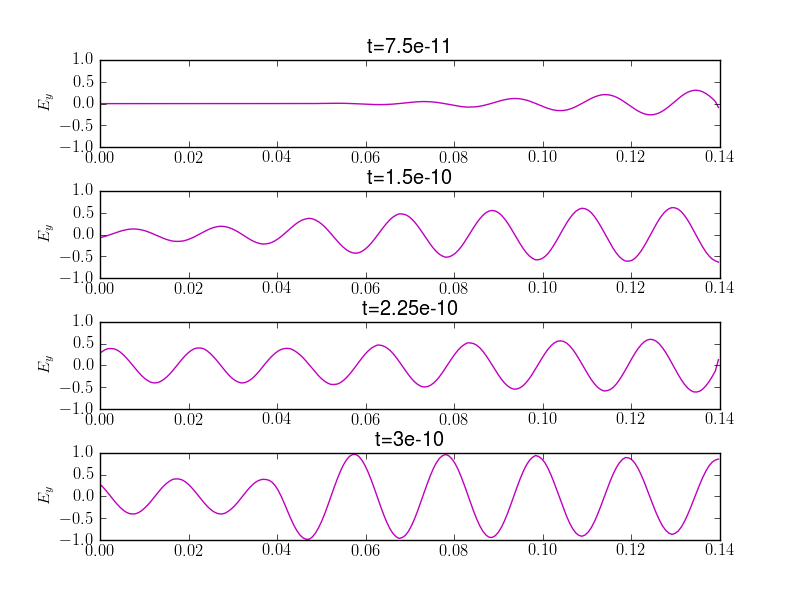
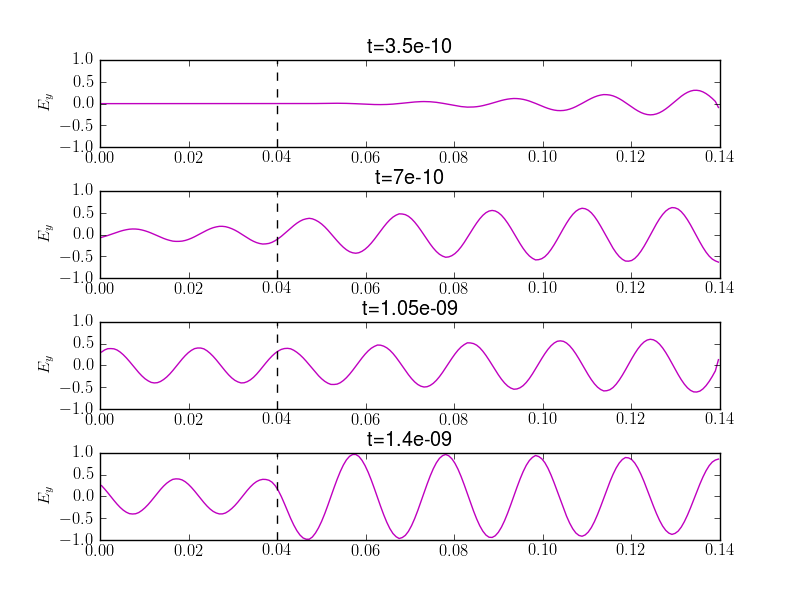
Updated figures and input file

diff --git a/sims/s72/plt-ExEy-cyclotron-cutoff.py b/sims/s72/plt-ExEy-cyclotron-cutoff.py
@@ -11,8 +11,8 @@ dx = (xup-xlo)/nx
 X = pylab.linspace(xlo+0.5*dx, xup-0.5*dx, nx)
 
 driveF = 15.0e9
-tEnd = 1.5e-9
-nDump = 20
+tEnd = 1.4e-9
+nDump = 4
 T = pylab.linspace(0, tEnd, nDump+1)
 
 fig = pylab.figure(1)
@@ -25,6 +25,7 @@ for i in [1, 2, 3, 4]:
     pylab.plot(X, q[:,10], 'm-')
     currAx = pylab.gca()
     currAx.set_ylim([-0.05, 0.05])
+    pylab.plot([0.04, 0.04], [-0.05, 0.05], 'k--')
     pylab.title("t=%g" % T[i])
     pylab.ylabel(r'$E_x$')
 
@@ -40,6 +41,7 @@ for i in [1, 2, 3, 4]:
     pylab.plot(X, q[:,11], 'm-')
     currAx = pylab.gca()
     currAx.set_ylim([-1.0, 1.0])
+    pylab.plot([0.04, 0.04], [-1.0, 1.0], 'k--')
     pylab.title("t=%g" % T[i])
     pylab.ylabel(r'$E_y$')    
 

diff --git a/je/je9/je9-cyclotron-tunneling.rst b/je/je9/je9-cyclotron-tunneling.rst
@@ -51,13 +51,15 @@ as the wave number becomes infinite there.
   :align: center
 
   The electric field (:math:`E_y`) of the EM wave at different
-  times. The wave tunnels through the electron cyclotron resonance
+  times. The black dashed line shows the location of the cyclotron
+  cutoff. The wave tunnels through the electron cyclotron resonance
   layer, forming a distinct standing wave pattern late in time.
 
 .. figure:: s72-Ex.png
   :width: 100%
   :align: center
 
-  The electrostatic field (:math:`E_x`) wave at different times. A
-  very sharp spike develops at the cutoff location as the wave number
+  The electrostatic field (:math:`E_x`) wave at different times. The
+  black dashed line shows the location of the cyclotron cutoff. A very
+  sharp spike develops at the cutoff location as the wave number
   becomes infinite.
